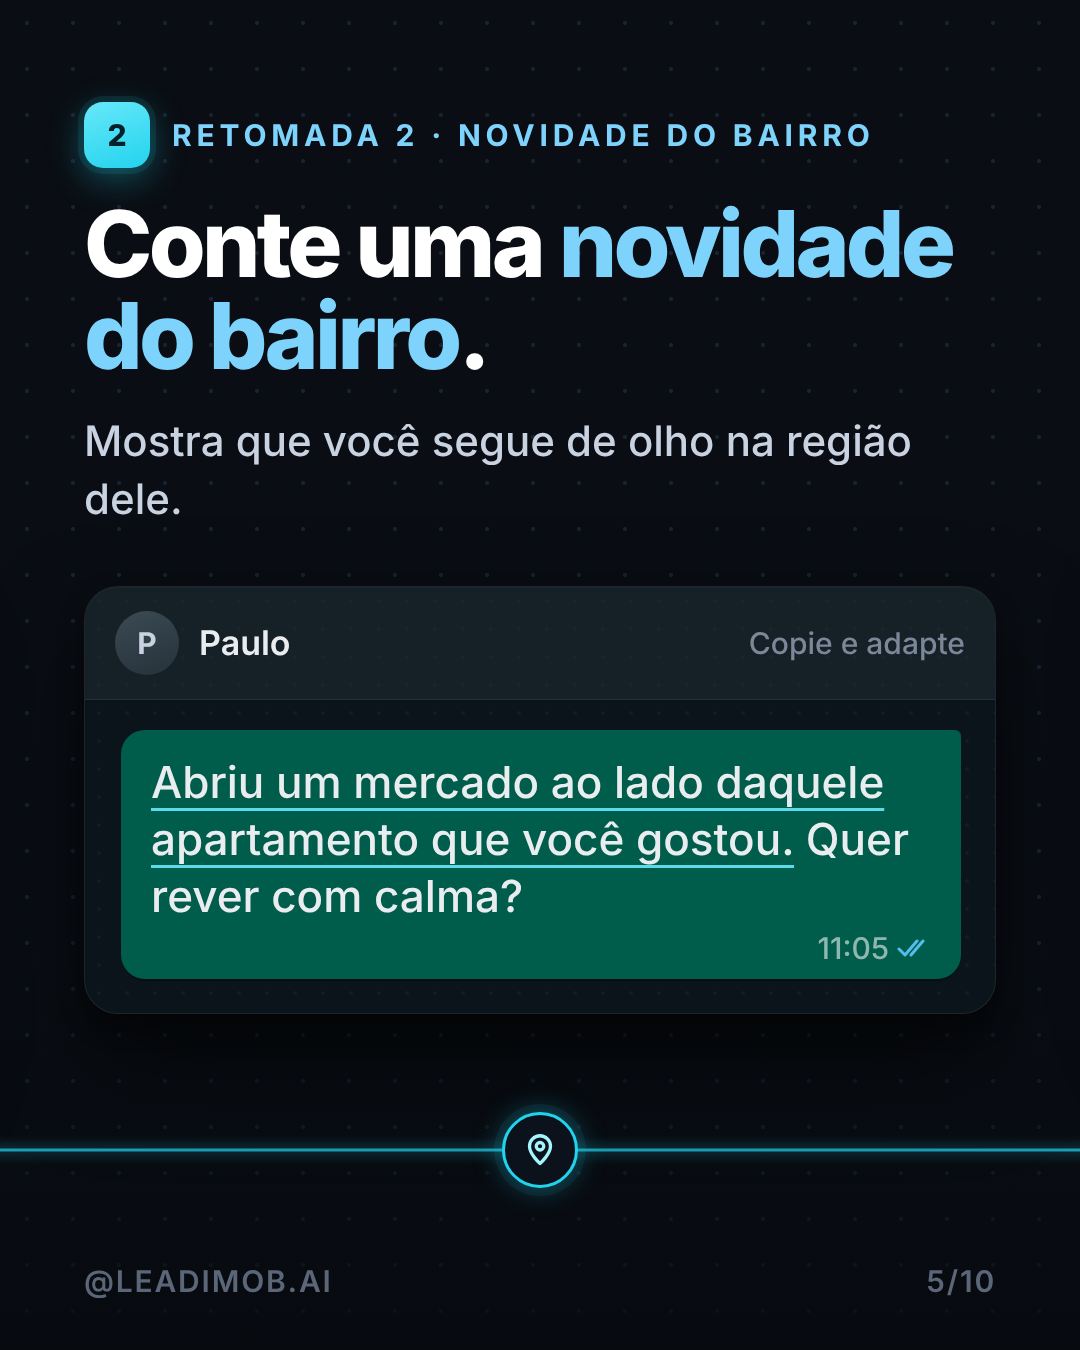
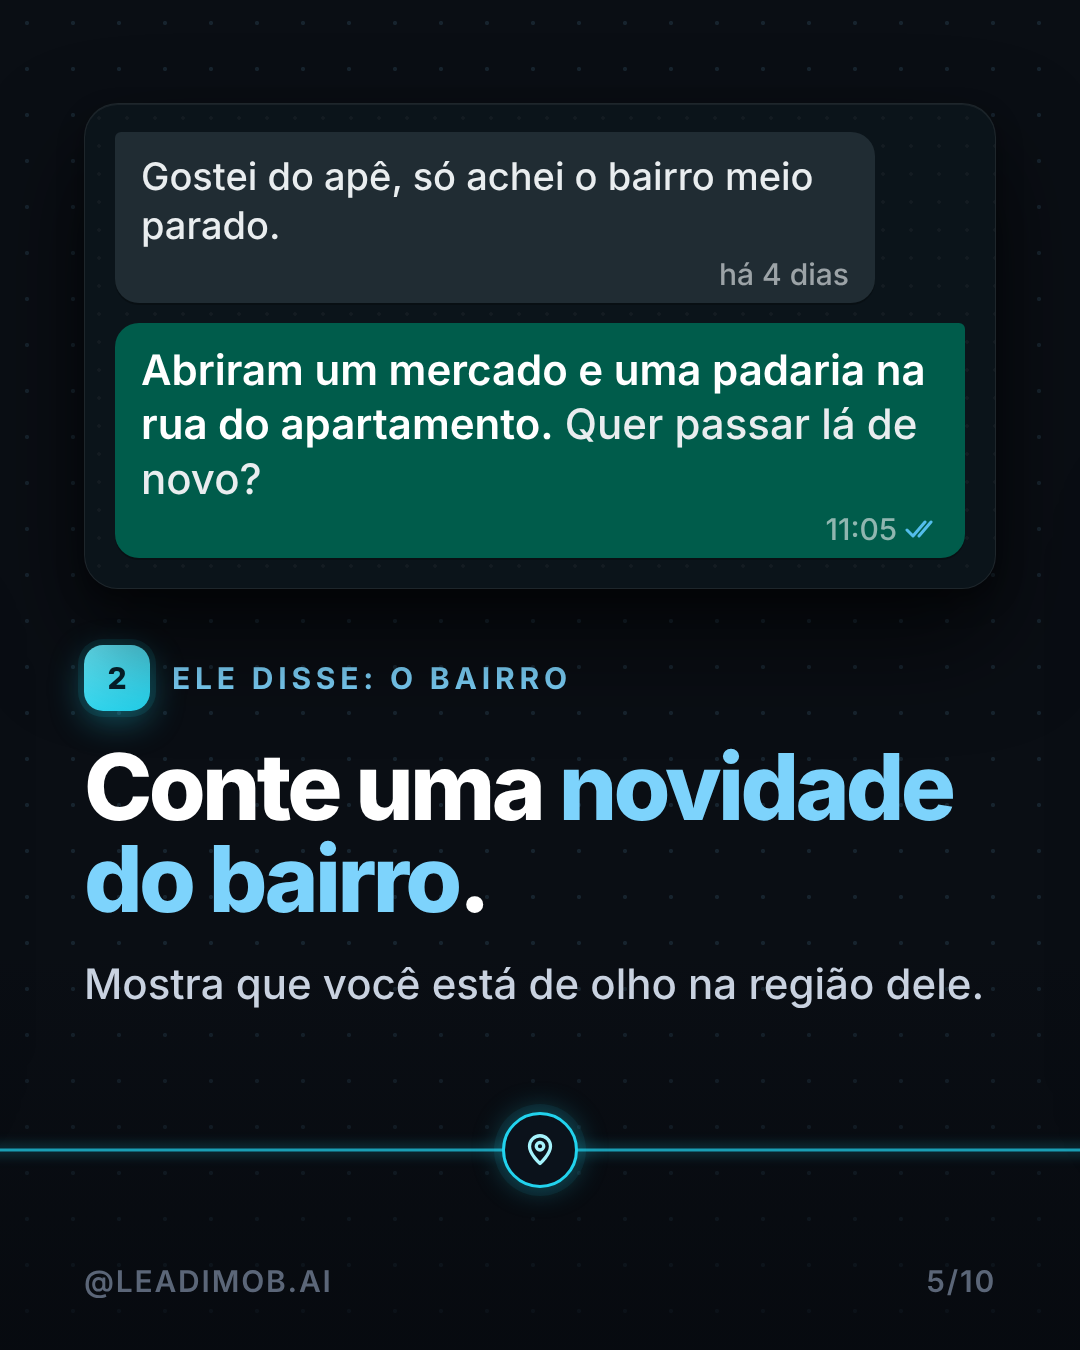
11/10: carrossel rodada 2 (em crítica, sem aprovação)
Claude-Session: https://claude.ai/code/session_0145jJKuZvfRBYxMPxCVaBcw

diff --git a/instagram/2026-10-11/src/c1-index.html b/instagram/2026-10-11/src/c1-index.html
@@ -62,7 +62,7 @@ body{background:#0A0E14;width:10800px;height:1350px;overflow:hidden;font-family:
 .chat .bx{padding:30px 34px 0}
 .chat .bub{font-size:44px;line-height:1.3;padding:24px 30px 16px;max-width:840px}
 .bt{font-size:30px}
-.mv{text-decoration:underline;text-decoration-color:rgba(103,232,249,.9);text-decoration-thickness:3px;text-underline-offset:10px;text-decoration-skip-ink:none}
+.mv{font-weight:600;color:#fff}
 .strk{text-decoration:line-through;text-decoration-thickness:4px;text-decoration-color:#F59E0B}
 .node{position:absolute;width:76px;height:76px;margin:-38px 0 0 -38px;border-radius:50%;background:#0B121B;border:3px solid #22D3EE;box-shadow:0 0 0 8px rgba(34,211,238,.07),0 0 30px rgba(34,211,238,.35);display:flex;align-items:center;justify-content:center;z-index:6}
 .node.g{border-color:#34D399;box-shadow:0 0 0 8px rgba(52,211,153,.07),0 0 30px rgba(52,211,153,.35)}
@@ -70,6 +70,19 @@ body{background:#0A0E14;width:10800px;height:1350px;overflow:hidden;font-family:
 .tile .ic{width:72px;height:72px;border-radius:20px;display:flex;align-items:center;justify-content:center}
 .tile .t{font:800 44px/1.08 IN;letter-spacing:-.025em}
 .plus{font:800 64px/1 IN;color:#5B6678;align-self:center;flex:none}
+.conv{margin-top:46px;padding:28px 30px 30px}
+.conv .bin{font-size:38px;padding:20px 26px 14px;max-width:760px}
+.conv .bout{margin-top:20px;font-size:42px;max-width:860px}
+.rb{flex:1;border-radius:16px;background:#1F2C33;border:1px solid rgba(255,255,255,.08);color:#53BDEB;font:600 34px/1 IN;display:flex;align-items:center;justify-content:center}
+.sep{display:flex;justify-content:center;margin:26px 0 0}
+.sep span{font:600 30px/1 IN;color:#8696A0;background:#182229;padding:12px 22px;border-radius:14px}
+.ann{font:700 30px/1 IN;letter-spacing:.14em;text-transform:uppercase;display:flex;align-items:center;gap:14px}
+.qr{display:flex;gap:16px;margin-top:14px;margin-left:auto;max-width:840px}
+.qr .rb{height:84px;font-size:34px;border-radius:20px}
+.ev{display:flex;align-items:center;gap:22px;margin-top:20px;padding:20px 24px;border-radius:18px;background:rgba(0,0,0,.22);border:1px solid rgba(255,255,255,.12)}
+.ev .ci{width:64px;height:64px;border-radius:16px;background:rgba(255,255,255,.1);display:flex;align-items:center;justify-content:center;flex:none}
+.ev b{display:block;font:700 38px/1.1 IN;color:#fff}
+.ev small{display:block;font:500 30px/1.2 IN;color:rgba(233,237,239,.75);margin-top:8px}
 </style></head><body><div id="strip">
 <div class="bg"></div>
 <div class="glow" style="left:-420px;top:-480px;width:1600px;height:1500px;background:radial-gradient(circle,rgba(37,99,235,.30),transparent 62%)"></div>
@@ -82,86 +95,99 @@ body{background:#0A0E14;width:10800px;height:1350px;overflow:hidden;font-family:
 <div id="nodes"></div>
 
 <!-- 1 capa -->
-<div class="sl" style="left:0;justify-content:flex-start;padding-top:118px">
+<div class="sl" style="left:0;justify-content:flex-start;padding-top:100px">
  <div style="display:flex;justify-content:space-between;align-items:center">
   <div class="ttl" style="margin:0"><div class="num"><svg width="34" height="34" viewBox="0 0 24 24" fill="none" stroke="#06202A" stroke-width="2.6" stroke-linecap="round" stroke-linejoin="round"><path d="M9 14L4 9l5-5"/><path d="M4 9h10.500a5.500 5.500 0 0 1 0 11H11"/></svg></div><div class="kick">Retomada</div></div>
   <span class="chip cy"><svg width="24" height="28" viewBox="0 0 20 24"><path d="M3 2h14v20l-7-5.500L3 22z" fill="#A5F3FC"/></svg>Salve este post</span>
  </div>
- <div class="h1" style="margin-top:84px;font-size:180px">Retome<br>sem<br><span class="hl">cobrar.</span></div>
- <div class="p" style="margin-top:50px;font-size:46px;color:#E2E8F0;max-width:800px">Mensagens para o cliente que sumiu, prontas para copiar.</div>
+ <div class="h1" style="margin-top:64px;font-size:150px;white-space:nowrap">Retome sem<br><span class="hl">cobrar.</span></div>
+ <div class="p" style="margin-top:40px;font-size:44px;color:#E2E8F0;max-width:860px">Mensagens para o cliente que sumiu, prontas para adaptar.</div>
+ <div style="margin-top:40px;width:800px;margin-left:auto">
+  <div class="bub bout" style="font-size:40px;max-width:820px">Lembrei de você: entrou um apartamento com varanda, do jeito que você pediu. Quer ver?<div class="bt">10:05 <svg class="tk" viewBox="0 0 34 22"><path d="M2 12l6 6L20 4M14 18l12-14" stroke="#53BDEB" stroke-width="3" fill="none" stroke-linecap="round" stroke-linejoin="round"/></svg></div></div>
+  <div class="bub bin" style="font-size:40px;margin-top:18px;margin-left:0">Manda!<div class="bt">10:07</div></div>
+ </div>
  <div class="foot"><span>@LEADIMOB.AI</span><span style="color:#7DD3FC">ARRASTE →</span></div></div>
 
 <!-- 2 o que evitar -->
 <div class="sl" style="left:1080px">
- <div class="ttl"><div class="num amb">!</div><div class="kick" style="color:#FBBF24">O que evitar</div></div>
- <div class="h2">“Ainda tem interesse?” <span class="am">soa como cobrança.</span></div>
- <div class="p">Pede uma resposta e não traz nada novo.</div>
- <div class="wa chat"><div class="bx">
+ <div class="ttl"><div class="num" style="background:linear-gradient(160deg,#3A4658,#2A3444);color:#E2E8F0;box-shadow:0 10px 30px rgba(0,0,0,.4)">!</div><div class="kick" style="color:#C9D2E0">O que evitar</div></div>
+ <div class="h2">Cobrar resposta <span class="am">vira silêncio.</span></div>
+ <div class="p">Mensagem que só pede retorno não dá motivo para responder.</div>
+ <div class="wa conv">
   <div class="bub bout">Oi, tudo bem? Ainda tem interesse no apartamento?<div class="bt">10:12 <svg class="tk" viewBox="0 0 34 22"><path d="M2 12l6 6L20 4M14 18l12-14" stroke="#53BDEB" stroke-width="3" fill="none" stroke-linecap="round" stroke-linejoin="round"/></svg></div></div>
-  <div style="display:flex;justify-content:flex-end;margin-top:26px"><span class="chip nt" style="color:#C9D2E0"><i style="width:14px;height:14px;border-radius:50%;background:#F59E0B;display:block"></i>Lida · sem resposta</span></div>
- </div></div>
+  <div style="display:flex;justify-content:flex-end;margin-top:24px"><span class="chip nt"><i style="width:14px;height:14px;border-radius:50%;background:#7C8799;display:block"></i>Lida · sem resposta</span></div>
+ </div>
  <div class="foot"><span>@LEADIMOB.AI</span><span>2/10</span></div></div>
 
 <!-- 3 a regra -->
 <div class="sl" style="left:2160px">
- <div class="ttl"><div class="num"><svg width="32" height="32" viewBox="0 0 24 24" fill="none" stroke="#06202A" stroke-width="2.8" stroke-linecap="round"><path d="M12 5v9M12 18.500v.5"/></svg></div><div class="kick">A regra</div></div>
+ <div class="ttl"><div class="num"><svg width="32" height="32" viewBox="0 0 24 24"><path d="M5 12.500l4.500 4.500L19 7" stroke="#06202A" stroke-width="3" fill="none" stroke-linecap="round" stroke-linejoin="round"/></svg></div><div class="kick">A regra</div></div>
  <div class="h2">Volte com <span class="hl">um motivo</span>.</div>
  <div class="p">Algo novo para ele, e uma pergunta fácil de responder.</div>
- <div style="margin-top:58px;display:flex;align-items:stretch;gap:26px">
-  <div class="card tile" style="border-color:rgba(34,211,238,.5)"><div class="ic" style="background:rgba(34,211,238,.12);border:1.5px solid rgba(34,211,238,.55)"><svg width="38" height="38" viewBox="0 0 24 24" fill="none" stroke="#A5F3FC" stroke-width="2.2" stroke-linecap="round" stroke-linejoin="round"><path d="M12 3l2.200 5.300L19.500 10l-5.300 2.200L12 17.500l-2.200-5.300L4.500 10l5.300-1.700z"/></svg></div><div class="t"><span class="mv">Um motivo</span><br>novo</div></div>
-  <div class="plus">+</div>
-  <div class="card tile"><div class="ic" style="background:rgba(255,255,255,.05);border:1.5px solid rgba(255,255,255,.16)"><svg width="38" height="38" viewBox="0 0 24 24" fill="none" stroke="#C9D2E0" stroke-width="2.2" stroke-linecap="round" stroke-linejoin="round"><path d="M12 3c5 0 9 3.600 9 8.200S17 19.500 12 19.500c-1 0-2-.15-2.900-.42L4.500 21l1.200-3.900C4 15.600 3 13.500 3 11.200 3 6.600 7 3 12 3z"/></svg></div><div class="t" style="color:#E2E8F0">Uma pergunta<br>fácil</div></div>
+ <div style="margin-top:50px">
+  <div class="ann" style="color:#A5F3FC;margin-left:40px">Motivo novo</div>
+  <div style="width:1px;height:34px;background:#22D3EE;margin:14px 0 0 60px"></div>
+  <div class="wa" style="padding:30px 34px">
+   <div class="bub bout" style="font-size:44px;line-height:1.3;padding:24px 30px 16px;max-width:none;margin-left:0;outline:1px solid rgba(34,211,238,.0)"><span style="box-shadow:inset 0 0 0 0">Consegui a planta do apartamento que você pediu.</span> <span style="color:#fff;font-weight:600">Te mando agora?</span><div class="bt">14:20 <svg class="tk" viewBox="0 0 34 22"><path d="M2 12l6 6L20 4M14 18l12-14" stroke="#53BDEB" stroke-width="3" fill="none" stroke-linecap="round" stroke-linejoin="round"/></svg></div></div>
+  </div>
+  <div style="width:1px;height:34px;background:rgba(201,210,224,.6);margin:0 80px 14px auto"></div>
+  <div class="ann" style="color:#C9D2E0;justify-content:flex-end;margin-right:40px">Pergunta fácil</div>
  </div>
  <div class="foot"><span>@LEADIMOB.AI</span><span>3/10</span></div></div>
 
 <!-- 4 retomada 1 -->
 <div class="sl" style="left:3240px">
- <div class="ttl"><div class="num">1</div><div class="kick">Retomada 1 · Opção nova</div></div>
+ <div class="ttl"><div class="num">1</div><div class="kick">Ele disse: escola</div></div>
  <div class="h2">Mostre uma opção que <span class='hl'>bate com o pedido</span>.</div>
- <div class="p">Nova para ele e filtrada pelo que ele contou.</div>
- <div class="wa chat"><div class="hd"><div class="av">M</div><div class="nm">Marina</div><div class="st">Copie e adapte</div></div><div class="bx">
-  <div class="bub bout"><span class='mv'>Entrou um 3 quartos com quintal, perto da escola que você comentou.</span> Te mando as fotos?<div class="bt">09:40 <svg class="tk" viewBox="0 0 34 22"><path d="M2 12l6 6L20 4M14 18l12-14" stroke="#53BDEB" stroke-width="3" fill="none" stroke-linecap="round" stroke-linejoin="round"/></svg></div></div>
- </div></div>
+ <div class="p">O motivo vem do que ele mesmo contou.</div>
+ <div class="wa conv">
+  <div class="bub bin">Precisa ser perto da escola das crianças.<div class="bt">há 6 dias</div></div>
+  <div class="bub bout"><span class='mv'>Achei uma casa na mesma rua da escola.</span> Quer ver por dentro?<div class="bt">09:40 <svg class="tk" viewBox="0 0 34 22"><path d="M2 12l6 6L20 4M14 18l12-14" stroke="#53BDEB" stroke-width="3" fill="none" stroke-linecap="round" stroke-linejoin="round"/></svg></div></div>
+ </div>
  <div class="foot"><span>@LEADIMOB.AI</span><span>4/10</span></div></div>
 
 <!-- 5 retomada 2 -->
 <div class="sl" style="left:4320px">
- <div class="ttl"><div class="num">2</div><div class="kick">Retomada 2 · Novidade do bairro</div></div>
+ <div class="wa conv" style="margin-top:0;margin-bottom:56px">
+  <div class="bub bin">Gostei do apê, só achei o bairro meio parado.<div class="bt">há 4 dias</div></div>
+  <div class="bub bout"><span class='mv'>Abriram um mercado e uma padaria na rua do apartamento.</span> Quer passar lá de novo?<div class="bt">11:05 <svg class="tk" viewBox="0 0 34 22"><path d="M2 12l6 6L20 4M14 18l12-14" stroke="#53BDEB" stroke-width="3" fill="none" stroke-linecap="round" stroke-linejoin="round"/></svg></div></div>
+ </div>
+ <div class="ttl"><div class="num">2</div><div class="kick">Ele disse: o bairro</div></div>
  <div class="h2">Conte uma <span class='hl'>novidade do bairro</span>.</div>
- <div class="p">Mostra que você segue de olho na região dele.</div>
- <div class="wa chat"><div class="hd"><div class="av">P</div><div class="nm">Paulo</div><div class="st">Copie e adapte</div></div><div class="bx">
-  <div class="bub bout"><span class='mv'>Abriu um mercado ao lado daquele apartamento que você gostou.</span> Quer rever com calma?<div class="bt">11:05 <svg class="tk" viewBox="0 0 34 22"><path d="M2 12l6 6L20 4M14 18l12-14" stroke="#53BDEB" stroke-width="3" fill="none" stroke-linecap="round" stroke-linejoin="round"/></svg></div></div>
- </div></div>
+ <div class="p">Mostra que você está de olho na região dele.</div>
  <div class="foot"><span>@LEADIMOB.AI</span><span>5/10</span></div></div>
 
 <!-- 6 retomada 3 -->
 <div class="sl" style="left:5400px">
- <div class="ttl"><div class="num">3</div><div class="kick">Retomada 3 · Horário livre</div></div>
+ <div class="ttl"><div class="num">3</div><div class="kick">Ele disse: sem tempo</div></div>
  <div class="h2">Ofereça um <span class='hl'>horário livre</span>.</div>
  <div class="p">Uma visita fácil de encaixar na semana dele.</div>
- <div class="wa chat"><div class="hd"><div class="av">R</div><div class="nm">Renata</div><div class="st">Copie e adapte</div></div><div class="bx">
-  <div class="bub bout"><span class='mv'>Vou estar no Jardim Europa na quinta, no fim da tarde.</span> Quer aproveitar e ver o apartamento?<div class="bt">16:20 <svg class="tk" viewBox="0 0 34 22"><path d="M2 12l6 6L20 4M14 18l12-14" stroke="#53BDEB" stroke-width="3" fill="none" stroke-linecap="round" stroke-linejoin="round"/></svg></div></div>
- </div></div>
+ <div class="wa conv">
+  <div class="bub bin">Essa semana está corrida, só tenho o fim da tarde.<div class="bt">há 3 dias</div></div>
+  <div class="bub bout"><span class='mv'>Reservei um horário depois do seu trabalho.</span> Pode ser?<div class='ev'><div class='ci'><svg width="36" height="36" viewBox="0 0 24 24" fill="none" stroke="#E9EDEF" stroke-width="2.2" stroke-linecap="round" stroke-linejoin="round"><rect x="4" y="5" width="16" height="15" rx="2.500"/><path d="M4 10h16M8 3v4M16 3v4"/></svg></div><div><b>Quinta · 18:30</b><small>Visita · Jardim Europa</small></div></div><div class="bt">16:20 <svg class="tk" viewBox="0 0 34 22"><path d="M2 12l6 6L20 4M14 18l12-14" stroke="#53BDEB" stroke-width="3" fill="none" stroke-linecap="round" stroke-linejoin="round"/></svg></div></div>
+ </div>
  <div class="foot"><span>@LEADIMOB.AI</span><span>6/10</span></div></div>
 
 <!-- 7 retomada 4 -->
 <div class="sl" style="left:6480px">
- <div class="ttl"><div class="num">4</div><div class="kick">Retomada 4 · A dúvida que ficou</div></div>
+ <div class="wa conv" style="margin-top:0;margin-bottom:56px">
+  <div class="bub bin">O condomínio aceita cachorro?<div class="bt">há 5 dias</div></div>
+  <div class="bub bout"><span class='mv'>Confirmei com o síndico: aceita, sim.</span> Quer ver a área de lazer na visita?<div class="bt">10:30 <svg class="tk" viewBox="0 0 34 22"><path d="M2 12l6 6L20 4M14 18l12-14" stroke="#53BDEB" stroke-width="3" fill="none" stroke-linecap="round" stroke-linejoin="round"/></svg></div></div>
+ </div>
+ <div class="ttl"><div class="num">4</div><div class="kick">Ele perguntou: pet</div></div>
  <div class="h2">Traga a resposta da <span class='hl'>dúvida que ficou</span>.</div>
  <div class="p">A resposta já é o motivo para voltar.</div>
- <div class="wa chat"><div class="hd"><div class="av">C</div><div class="nm">Carlos</div><div class="st">Copie e adapte</div></div><div class="bx">
-  <div class="bub bout"><span class='mv'>Confirmei com o condomínio: aceita pet, sim.</span> Quer marcar a visita?<div class="bt">10:30 <svg class="tk" viewBox="0 0 34 22"><path d="M2 12l6 6L20 4M14 18l12-14" stroke="#53BDEB" stroke-width="3" fill="none" stroke-linecap="round" stroke-linejoin="round"/></svg></div></div>
- </div></div>
  <div class="foot"><span>@LEADIMOB.AI</span><span>7/10</span></div></div>
 
 <!-- 8 retomada 5 -->
 <div class="sl" style="left:7560px">
- <div class="ttl"><div class="num">5</div><div class="kick">Retomada 5 · Escolha A ou B</div></div>
+ <div class="ttl"><div class="num">5</div><div class="kick">Ele disse: não sei</div></div>
  <div class="h2">Peça uma <span class='hl'>escolha simples</span>.</div>
- <div class="p">Escolher entre duas opções é mais fácil que decidir.</div>
- <div class="wa chat"><div class="hd"><div class="av">A</div><div class="nm">Ana</div><div class="st">Copie e adapte</div></div><div class="bx">
-  <div class="bub bout"><span class='mv'>Para eu filtrar melhor:</span> você prefere mais espaço ou ficar mais perto do trabalho?<div class="bt">18:15 <svg class="tk" viewBox="0 0 34 22"><path d="M2 12l6 6L20 4M14 18l12-14" stroke="#53BDEB" stroke-width="3" fill="none" stroke-linecap="round" stroke-linejoin="round"/></svg></div></div>
- </div></div>
+ <div class="p">Escolher é mais fácil do que decidir do zero.</div>
+ <div class="wa conv">
+  <div class="bub bin">Ainda estou em dúvida entre as opções.<div class="bt">ontem</div></div>
+  <div class="bub bout"><span class='mv'>Para eu filtrar melhor:</span> você prefere mais espaço ou ficar perto do trabalho?<div class="bt">18:15 <svg class="tk" viewBox="0 0 34 22"><path d="M2 12l6 6L20 4M14 18l12-14" stroke="#53BDEB" stroke-width="3" fill="none" stroke-linecap="round" stroke-linejoin="round"/></svg></div></div><div class='qr'><div class='rb'>Mais espaço</div><div class='rb'>Perto do trabalho</div></div>
+ </div>
  <div class="foot"><span>@LEADIMOB.AI</span><span>8/10</span></div></div>
 <!-- 9 Leadimob -->
 <div class="sl" style="left:8640px">
@@ -169,7 +195,7 @@ body{background:#0A0E14;width:10800px;height:1350px;overflow:hidden;font-family:
  <div class="h2">A Leadimob retoma <span style="color:#6EE7B7">com contexto</span>.</div>
  <div class="p">No seu WhatsApp, com o que o cliente pediu. Quando ele responde, você assume.</div>
  <div class="wa chat"><div class="hd"><div class="lab" style="color:#6EE7B7"><i style="width:14px;height:14px;border-radius:50%;background:#34D399;display:block"></i>Follow-up</div><div class="st" style="display:flex;gap:14px"><span class="chip nt" style="padding:12px 20px">3 quartos</span><span class="chip nt" style="padding:12px 20px">Perto da escola</span></div></div><div class="bx">
-  <div class="bub bout">Oi, Marina! Separei no catálogo uma casa com quintal perto da escola. Quer ver as fotos?<div class="bt">09:40 <svg class="tk" viewBox="0 0 34 22"><path d="M2 12l6 6L20 4M14 18l12-14" stroke="#53BDEB" stroke-width="3" fill="none" stroke-linecap="round" stroke-linejoin="round"/></svg></div></div>
+  <div class="bub bout">Oi, Marina! Separei no catálogo uma casa com quintal perto da escola. Quer agendar uma visita?<div class="bt">09:40 <svg class="tk" viewBox="0 0 34 22"><path d="M2 12l6 6L20 4M14 18l12-14" stroke="#53BDEB" stroke-width="3" fill="none" stroke-linecap="round" stroke-linejoin="round"/></svg></div></div>
  </div></div>
  <div class="foot"><span>@LEADIMOB.AI</span><span>9/10</span></div></div>
 
@@ -202,8 +228,8 @@ body{background:#0A0E14;width:10800px;height:1350px;overflow:hidden;font-family:
  // slide 2: silêncio (tracejado cinza, cede um pouco)
  path(`M 1080 ${Y} C 1380 ${Y} 1440 ${Y+34} 1620 ${Y+34} S 1860 ${Y} 2160 ${Y}`,{stroke:'#5B6678','stroke-width':3,'stroke-dasharray':'2 16','stroke-linecap':'round'});
  // slide 3: a volta (laço) e o fio retoma em ciano
- path(`M 2160 ${Y} L 2520 ${Y} C 2740 ${Y} 2800 ${Y-150} 2700 ${Y-150} C 2600 ${Y-150} 2660 ${Y} 2880 ${Y} L 8100 ${Y}`,{stroke:'#22D3EE','stroke-opacity':.7,'stroke-width':3});
- path(`M 2160 ${Y} L 2520 ${Y} C 2740 ${Y} 2800 ${Y-150} 2700 ${Y-150} C 2600 ${Y-150} 2660 ${Y} 2880 ${Y} L 8100 ${Y}`,{stroke:'#22D3EE','stroke-opacity':.18,'stroke-width':12,'filter':'blur(6px)'});
+ path(`M 2160 ${Y} L 2520 ${Y} C 2730 ${Y} 2780 ${Y-110} 2700 ${Y-110} C 2620 ${Y-110} 2670 ${Y} 2880 ${Y} L 8100 ${Y}`,{stroke:'#22D3EE','stroke-opacity':.7,'stroke-width':3});
+ path(`M 2160 ${Y} L 2520 ${Y} C 2730 ${Y} 2780 ${Y-110} 2700 ${Y-110} C 2620 ${Y-110} 2670 ${Y} 2880 ${Y} L 8100 ${Y}`,{stroke:'#22D3EE','stroke-opacity':.18,'stroke-width':12,'filter':'blur(6px)'});
  path(`M 8100 ${Y} L 10800 ${Y}`,{stroke:'url(#g9)','stroke-width':3});
  // ponto do silêncio
  const dot=(x,y,c,r)=>{const e=document.createElementNS(ns,'circle');e.setAttribute('cx',x);e.setAttribute('cy',y);e.setAttribute('r',r);e.setAttribute('fill','#0A0E14');e.setAttribute('stroke',c);e.setAttribute('stroke-width',4);S.appendChild(e)};

diff --git a/instagram/2026-10-11/carrossel/carrossel-editor.html b/instagram/2026-10-11/carrossel/carrossel-editor.html
@@ -312,7 +312,7 @@ input[type=range]{width:100%;accent-color:#6C5CE7;height:18px;cursor:pointer;}
     </div>
   </div>
 </div>
-<script id="deck-data" type="application/json">{"kit": "tech", "formato": "4:5", "paleta": {"bg": "#0A0E14", "fg": "#FFFFFF", "muted": "#8A93A3", "accent": "#22D3EE", "surface": "#141B28", "cream": "#F3F7FB"}, "handle": "@leadimob.ai", "slides": [{"tipo": "capa", "kicker": "RETOMADA · SALVE ESTE POST", "titulo": "Retome sem cobrar.", "sub": "Mensagens para o cliente que sumiu, prontas para copiar."}, {"tipo": "conteudo", "kicker": "O QUE EVITAR", "titulo": "“Ainda tem interesse?” soa como cobrança.", "sub": "Pede uma resposta e não traz nada novo."}, {"tipo": "conteudo", "kicker": "A REGRA", "titulo": "Volte com um motivo.", "sub": "Algo novo para ele, e uma pergunta fácil de responder."}, {"tipo": "conteudo", "kicker": "RETOMADA 1 · OPÇÃO NOVA", "titulo": "Mostre uma opção que bate com o pedido.", "sub": "Entrou um 3 quartos com quintal, perto da escola que você comentou. Te mando as fotos?"}, {"tipo": "conteudo", "kicker": "RETOMADA 2 · NOVIDADE DO BAIRRO", "titulo": "Conte uma novidade do bairro.", "sub": "Abriu um mercado ao lado daquele apartamento que você gostou. Quer rever com calma?"}, {"tipo": "conteudo", "kicker": "RETOMADA 3 · HORÁRIO LIVRE", "titulo": "Ofereça um horário livre.", "sub": "Vou estar no Jardim Europa na quinta, no fim da tarde. Quer aproveitar e ver o apartamento?"}, {"tipo": "conteudo", "kicker": "RETOMADA 4 · A DÚVIDA QUE FICOU", "titulo": "Traga a resposta da dúvida que ficou.", "sub": "Confirmei com o condomínio: aceita pet, sim. Quer marcar a visita?"}, {"tipo": "conteudo", "kicker": "RETOMADA 5 · ESCOLHA A OU B", "titulo": "Peça uma escolha simples.", "sub": "Para eu filtrar melhor: você prefere mais espaço ou ficar mais perto do trabalho?"}, {"tipo": "conteudo", "kicker": "ONDE A LEADIMOB ENTRA", "titulo": "A Leadimob retoma com contexto.", "sub": "No seu WhatsApp, com o que o cliente pediu. Quando ele responde, você assume."}, {"tipo": "cta", "titulo": "Qual retomada funciona com os seus clientes?", "acao": "Comente RETOMADA", "sub": "E conte qual mensagem você usa para voltar a conversar. Solicite uma demonstração — link na bio."}]}</script>
+<script id="deck-data" type="application/json">{"kit": "tech", "formato": "4:5", "paleta": {"bg": "#0A0E14", "fg": "#FFFFFF", "muted": "#8A93A3", "accent": "#22D3EE", "surface": "#141B28", "cream": "#F3F7FB"}, "handle": "@leadimob.ai", "slides": [{"tipo": "capa", "kicker": "RETOMADA · SALVE ESTE POST", "titulo": "Retome sem cobrar.", "sub": "Mensagens para o cliente que sumiu, prontas para adaptar."}, {"tipo": "conteudo", "kicker": "O QUE EVITAR", "titulo": "Cobrar resposta vira silêncio.", "sub": "Mensagem que só pede retorno não dá motivo para responder."}, {"tipo": "conteudo", "kicker": "A REGRA", "titulo": "Volte com um motivo.", "sub": "Consegui a planta do apartamento que você pediu. Te mando agora?"}, {"tipo": "conteudo", "kicker": "ELE DISSE: ESCOLA", "titulo": "Mostre uma opção que bate com o pedido.", "sub": "Achei uma casa na mesma rua da escola. Quer ver por dentro?"}, {"tipo": "conteudo", "kicker": "ELE DISSE: O BAIRRO", "titulo": "Conte uma novidade do bairro.", "sub": "Abriram um mercado e uma padaria na rua do apartamento. Quer passar lá de novo?"}, {"tipo": "conteudo", "kicker": "ELE DISSE: SEM TEMPO", "titulo": "Ofereça um horário livre.", "sub": "Reservei um horário depois do seu trabalho. Pode ser? Quinta · 18:30"}, {"tipo": "conteudo", "kicker": "ELE PERGUNTOU: PET", "titulo": "Traga a resposta da dúvida que ficou.", "sub": "Confirmei com o síndico: aceita, sim. Quer ver a área de lazer na visita?"}, {"tipo": "conteudo", "kicker": "ELE DISSE: NÃO SEI", "titulo": "Peça uma escolha simples.", "sub": "Para eu filtrar melhor: você prefere mais espaço ou ficar perto do trabalho?"}, {"tipo": "conteudo", "kicker": "ONDE A LEADIMOB ENTRA", "titulo": "A Leadimob retoma com contexto.", "sub": "No seu WhatsApp, com o que o cliente pediu. Quando ele responde, você assume."}, {"tipo": "cta", "titulo": "Qual retomada funciona com os seus clientes?", "acao": "Comente RETOMADA", "sub": "E conte qual mensagem você usa para voltar a conversar. Solicite uma demonstração — link na bio."}]}</script>
 <script>
 const KITS = {
   "editorial":     {disp:"Anton", body:"Inter", mono:"JetBrains Mono", serif:"Instrument Serif",
